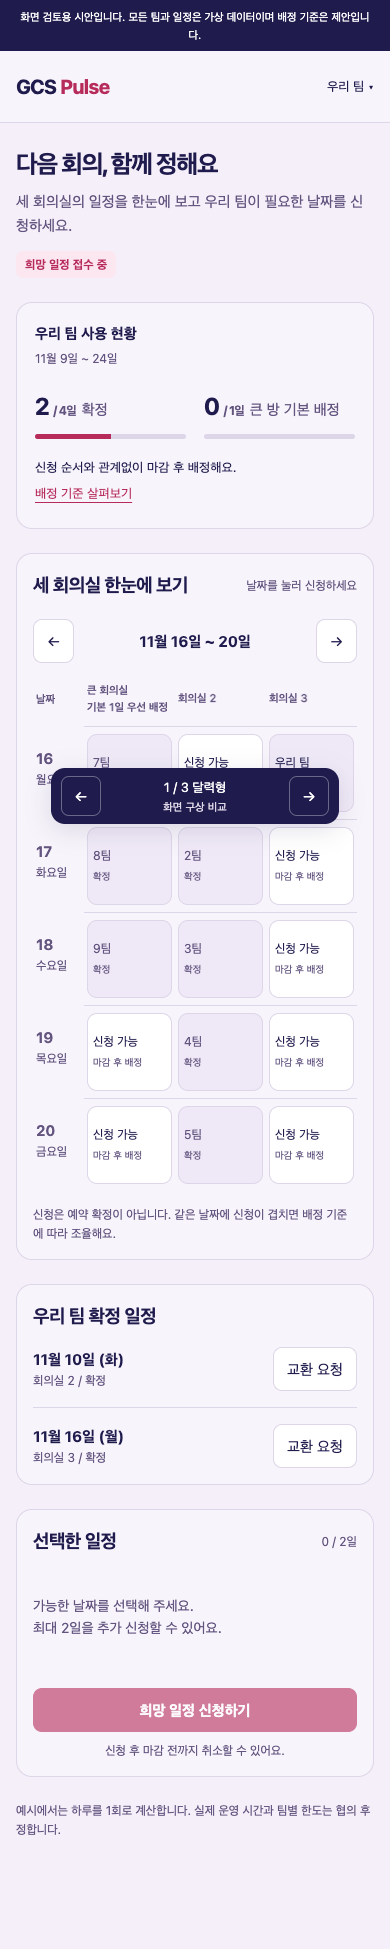
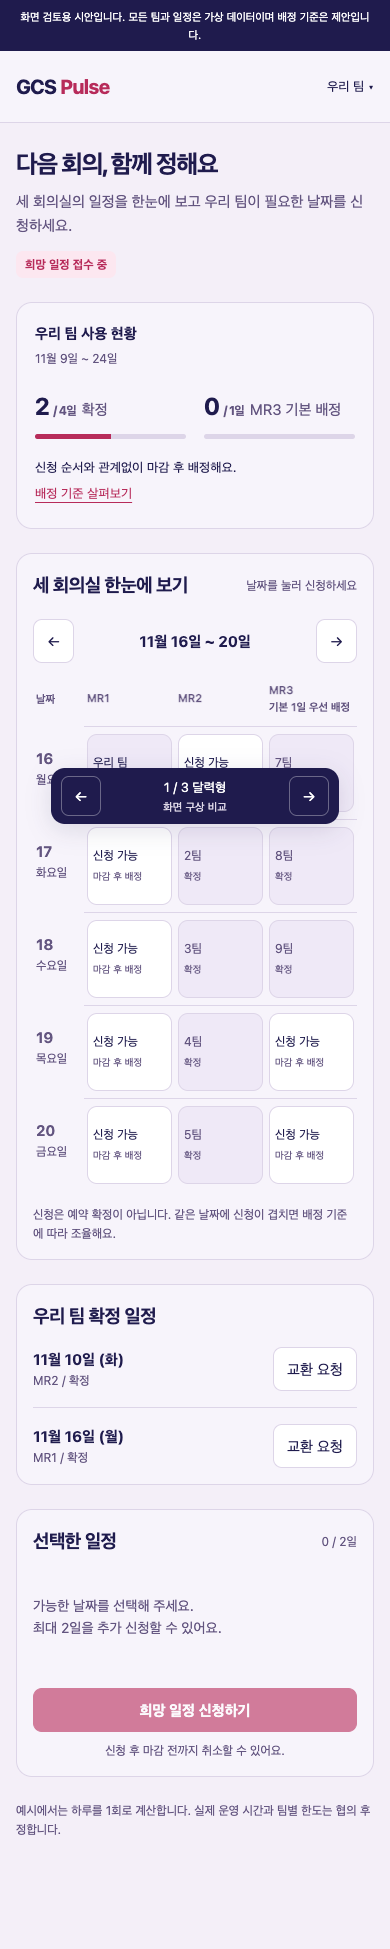
docs: 회의실 명칭과 MR3 배정 대상 수정

diff --git a/doc/prototypes/meeting-room-allocation/index.html b/doc/prototypes/meeting-room-allocation/index.html
@@ -110,10 +110,10 @@
     <section class="usage" aria-label="우리 팀 배정 현황">
       <div class="usage-label"><strong>우리 팀 사용 현황</strong><br><small>11월 9일 ~ 24일</small></div>
       <div class="usage-item"><div><strong>2 <small>/ 4일</small></strong><span class="muted">확정</span></div><div class="track"><div class="fill"></div></div></div>
-      <div class="usage-item"><div><strong>0 <small>/ 1일</small></strong><span class="muted">큰 방 기본 배정</span></div><div class="track"><div class="fill" style="width:0"></div></div></div>
+      <div class="usage-item"><div><strong>0 <small>/ 1일</small></strong><span class="muted">MR3 기본 배정</span></div><div class="track"><div class="fill" style="width:0"></div></div></div>
       <div class="rule">신청 순서와 관계없이 마감 후 배정해요.<br><button class="text-button" id="rule-toggle" aria-expanded="false" aria-controls="rules">배정 기준 살펴보기</button></div>
     </section>
-    <div id="rules" class="rule-detail" hidden>예시 기준: 9팀이 12일 동안 회의실 3개를 하루 단위로 사용합니다. 팀당 총 4일 중 큰 방 1일을 먼저 배정하고, 남은 큰 방 3일은 추가 추첨합니다. 날짜가 겹치면 대체 날짜 조율이 필요하며 희망 날짜를 보장하지 않습니다. 추가 배정과 시간 단위 운영은 별도 논의가 필요합니다.</div>
+    <div id="rules" class="rule-detail" hidden>예시 기준: 9팀이 12일 동안 MR1, MR2, MR3를 하루 단위로 사용합니다. 팀당 총 4일 중 큰 방인 MR3를 1일 먼저 배정하고, 남은 MR3 3일은 추가 추첨합니다. 날짜가 겹치면 대체 날짜 조율이 필요하며 희망 날짜를 보장하지 않습니다. 추가 배정과 시간 단위 운영은 별도 논의가 필요합니다.</div>
     <div id="feedback" class="notice" role="status" hidden></div>
     <div id="screen"></div>
     <p class="footnote muted">예시에서는 하루를 1회로 계산합니다. 실제 운영 시간과 팀별 한도는 협의 후 정합니다.</p>
@@ -134,15 +134,16 @@
     const dates = [9,10,11,12,13,16,17,18,19,20,23,24];
     const weekdays = ['월','화','수','목','금','월','화','수','목','금','월','화'];
     const weeks = [[0,1,2,3,4],[5,6,7,8,9],[10,11]];
-    const rooms = ['큰 회의실','회의실 2','회의실 3'];
+    const rooms = ['MR1','MR2','MR3'];
+    const largeRoom = 2;
     const bookings = [
-      {d:1,r:1,t:0},{d:5,r:2,t:0},{d:0,r:0,t:1},{d:6,r:1,t:1},
-      {d:1,r:0,t:2},{d:7,r:1,t:2},{d:2,r:0,t:3},{d:8,r:1,t:3},
-      {d:3,r:0,t:4},{d:9,r:1,t:4},{d:4,r:0,t:5},{d:10,r:1,t:5},
-      {d:5,r:0,t:6},{d:11,r:1,t:6},{d:6,r:0,t:7},{d:0,r:2,t:7},
-      {d:7,r:0,t:8},{d:2,r:2,t:8}
+      {d:1,r:1,t:0},{d:5,r:0,t:0},{d:0,r:2,t:1},{d:6,r:1,t:1},
+      {d:1,r:2,t:2},{d:7,r:1,t:2},{d:2,r:2,t:3},{d:8,r:1,t:3},
+      {d:3,r:2,t:4},{d:9,r:1,t:4},{d:4,r:2,t:5},{d:10,r:1,t:5},
+      {d:5,r:2,t:6},{d:11,r:1,t:6},{d:6,r:2,t:7},{d:0,r:0,t:7},
+      {d:7,r:2,t:8},{d:2,r:0,t:8}
     ];
-    let week = 1, activeRoom = 0, selection = [], requests = [], exchangeSource = null, exchangeRequests = [];
+    let week = 1, activeRoom = largeRoom, selection = [], requests = [], exchangeSource = null, exchangeRequests = [];
     const screen = document.getElementById('screen');
     const feedback = document.getElementById('feedback');
     const ownBookings = bookings.filter(b => b.t === 0);
@@ -168,13 +169,13 @@
       return `<section class="panel my-bookings"><h2>우리 팀 확정 일정</h2>${ownBookings.map((b,i)=>`<div class="booking"><div><strong>${dateLabel(b.d)}</strong><small>${rooms[b.r]} / ${pendingExchange(b)?'교환 요청 중':'확정'}</small></div><button class="button" data-exchange="${i}" ${pendingExchange(b)?'disabled':''}>${pendingExchange(b)?'응답 대기':'교환 요청'}</button></div>`).join('')}</section>`;
     }
     function calendarView() {
-      return `<div class="workspace"><div><section class="panel"><div class="panel-head"><h2>세 회의실 한눈에 보기</h2><small>날짜를 눌러 신청하세요</small></div>${weekNav()}<table class="calendar"><thead><tr><th scope="col">날짜</th>${rooms.map((r,i)=>`<th scope="col">${r}${i===0?'<br>기본 1일 우선 배정':''}</th>`).join('')}</tr></thead><tbody>${weeks[week].map(d=>`<tr><th scope="row" class="date">${dates[d]}<small>${weekdays[d]}요일</small></th>${rooms.map((_,r)=>`<td>${slot(d,r)}</td>`).join('')}</tr>`).join('')}</tbody></table><p class="calendar-caption">신청은 예약 확정이 아닙니다. 같은 날짜에 신청이 겹치면 배정 기준에 따라 조율해요.</p></section>${myBookings()}</div>${selectionPanel()}</div>`;
+      return `<div class="workspace"><div><section class="panel"><div class="panel-head"><h2>세 회의실 한눈에 보기</h2><small>날짜를 눌러 신청하세요</small></div>${weekNav()}<table class="calendar"><thead><tr><th scope="col">날짜</th>${rooms.map((r,i)=>`<th scope="col">${r}${i===largeRoom?'<br>기본 1일 우선 배정':''}</th>`).join('')}</tr></thead><tbody>${weeks[week].map(d=>`<tr><th scope="row" class="date">${dates[d]}<small>${weekdays[d]}요일</small></th>${rooms.map((_,r)=>`<td>${slot(d,r)}</td>`).join('')}</tr>`).join('')}</tbody></table><p class="calendar-caption">신청은 예약 확정이 아닙니다. 같은 날짜에 신청이 겹치면 배정 기준에 따라 조율해요.</p></section>${myBookings()}</div>${selectionPanel()}</div>`;
     }
     function guidedView() {
-      return `<div class="flow"><section class="room-menu" aria-label="회의실 선택">${rooms.map((r,i)=>`<button class="button room-choice ${activeRoom===i?'selected':''}" aria-pressed="${activeRoom===i}" data-room="${i}"><strong>${r}</strong><small>${i===0?'팀별 기본 배정 1일':'전체 사용 한도 안에서 신청'}</small></button>`).join('')}</section><section class="panel"><div class="panel-head"><h2>${rooms[activeRoom]} 날짜 선택</h2></div>${weekNav()}<div class="date-choices">${weeks[week].map(d=>slot(d,activeRoom,true)).join('')}</div><p class="calendar-caption">접수 기간 안에서는 먼저 신청해도 우선권이 생기지 않아요.</p>${myBookings()}</section>${selectionPanel()}</div>`;
+      return `<div class="flow"><section class="room-menu" aria-label="회의실 선택">${rooms.map((r,i)=>`<button class="button room-choice ${activeRoom===i?'selected':''}" aria-pressed="${activeRoom===i}" data-room="${i}"><strong>${r}</strong><small>${i===largeRoom?'팀별 기본 배정 1일':'전체 사용 한도 안에서 신청'}</small></button>`).join('')}</section><section class="panel"><div class="panel-head"><h2>${rooms[activeRoom]} 날짜 선택</h2></div>${weekNav()}<div class="date-choices">${weeks[week].map(d=>slot(d,activeRoom,true)).join('')}</div><p class="calendar-caption">접수 기간 안에서는 먼저 신청해도 우선권이 생기지 않아요.</p>${myBookings()}</section>${selectionPanel()}</div>`;
     }
     function teamsView() {
-      return `<div class="workspace"><section class="panel"><div class="panel-head"><h2>함께 쓰는 회의실</h2><small>9개 팀의 배정 현황</small></div><table class="board"><thead><tr><th scope="col">팀</th><th scope="col">전체 확정</th><th scope="col">큰 방 확정</th></tr></thead><tbody>${Array.from({length:9},(_,t)=>{const teamBookings=bookings.filter(b=>b.t===t);return `<tr class="${t===0?'our-team':''}"><th scope="row">${teamName(t)}</th><td class="count">${Array.from({length:4},(_,i)=>`<span class="use ${i<teamBookings.length?'filled':''}" aria-hidden="true"></span>`).join('')}<small>${teamBookings.length} / 4일${t===0&&requests.length?` (신청 중 ${requests.length}일)`:''}</small></td><td>${teamBookings.filter(b=>b.r===0).length}일</td></tr>`;}).join('')}</tbody></table><p class="board-note muted">전체 사용 횟수와 큰 방 배정 현황을 함께 확인할 수 있어요.</p>${myBookings()}</section><div><section class="panel"><h2>우리 팀 일정 추가</h2><p class="muted" style="margin:8px 0 16px">큰 방을 아직 배정받지 않았어요.</p>${weekNav()}<div class="compact-choices">${weeks[week].map(d=>slot(d,0,true)).join('')}</div></section><div style="margin-top:20px">${selectionPanel()}</div></div></div>`;
+      return `<div class="workspace"><section class="panel"><div class="panel-head"><h2>함께 쓰는 회의실</h2><small>9개 팀의 배정 현황</small></div><table class="board"><thead><tr><th scope="col">팀</th><th scope="col">전체 확정</th><th scope="col">MR3 확정</th></tr></thead><tbody>${Array.from({length:9},(_,t)=>{const teamBookings=bookings.filter(b=>b.t===t);return `<tr class="${t===0?'our-team':''}"><th scope="row">${teamName(t)}</th><td class="count">${Array.from({length:4},(_,i)=>`<span class="use ${i<teamBookings.length?'filled':''}" aria-hidden="true"></span>`).join('')}<small>${teamBookings.length} / 4일${t===0&&requests.length?` (신청 중 ${requests.length}일)`:''}</small></td><td>${teamBookings.filter(b=>b.r===largeRoom).length}일</td></tr>`;}).join('')}</tbody></table><p class="board-note muted">전체 사용 횟수와 큰 방 배정 현황을 함께 확인할 수 있어요.</p>${myBookings()}</section><div><section class="panel"><h2>우리 팀 일정 추가</h2><p class="muted" style="margin:8px 0 16px">MR3를 아직 배정받지 않았어요.</p>${weekNav()}<div class="compact-choices">${weeks[week].map(d=>slot(d,largeRoom,true)).join('')}</div></section><div style="margin-top:20px">${selectionPanel()}</div></div></div>`;
     }
     function render() {
       screen.innerHTML = variant==='calendar'?calendarView():variant==='guided'?guidedView():teamsView();
@@ -196,7 +197,7 @@
       const all=[...ownBookings,...requests,...selection];
       if(all.some(s=>s.d===d)) { notify('같은 날짜에는 한 회의실만 신청할 수 있어요. 기존 선택을 해제한 뒤 골라 주세요.');return; }
       if(all.length>=4) { notify('팀별 전체 사용 한도는 4일이에요. 선택하거나 신청한 날짜를 먼저 해제해 주세요.');return; }
-      if(r===0&&all.some(s=>s.r===0)) { notify('이번 기본 배정에서는 큰 방을 1일 신청할 수 있어요. 추가 배정은 별도로 진행해요.');return; }
+      if(r===largeRoom&&all.some(s=>s.r===largeRoom)) { notify('이번 기본 배정에서는 MR3를 1일 신청할 수 있어요. 추가 배정은 별도로 진행해요.');return; }
       selection.push({d,r});feedback.hidden=true;render();
     }
     function changeVariant(delta) {

diff --git a/doc/prototypes/meeting-room-allocation/README.md b/doc/prototypes/meeting-room-allocation/README.md
@@ -2,7 +2,9 @@
 
 팀별 사용 횟수를 확인하면서 세 회의실의 희망 일정을 신청하고, 확정된 날짜를 다른 팀과 교환할 수 있는 화면을 제안합니다. 기존 회의실 예약 기능에 어떻게 연결하면 좋을지 검토하기 위한 시안입니다.
 
-**이번 변경은 문서와 독립된 화면 시안입니다. 운영 예약, API, 데이터베이스, 배정 정책은 변경하지 않습니다.** 팀, 날짜, 방 이름, 배정 내역은 모두 가상 데이터입니다. 팀당 4일과 큰 방 기본 1일은 화면 검토를 위한 예시이며 확정된 운영 규칙을 의미하지 않습니다.
+**이번 변경은 문서와 독립된 화면 시안입니다. 운영 예약, API, 데이터베이스, 배정 정책은 변경하지 않습니다.** 회의실 이름은 MR1, MR2, MR3로 표시합니다. 팀, 날짜, 배정 내역은 가상 데이터입니다. 팀당 4일과 큰 방 기본 1일은 화면 검토를 위한 예시이며 확정된 운영 규칙을 의미하지 않습니다.
+
+큰 방 배정 대상은 MR3입니다. 2026년 10월 26일 회의실 목록 조회에서 North와 South 모두 MR3가 MR1, MR2보다 큰 수용 인원으로 안내되는 것을 확인했습니다. 시안에는 구역 접두사를 생략해 MR1, MR2, MR3로 표시하며, 실제 서비스 연결 시 구역과 방 ID를 함께 구분해야 합니다.
 
 ## 바로 확인하기
 
@@ -53,8 +55,8 @@ python3 -m http.server 8765 --directory doc/prototypes/meeting-room-allocation
 
 ## 시안에서 직접 확인할 수 있는 흐름
 
-1. 기본 화면의 11월 19일 큰 회의실을 선택합니다.
-2. 11월 20일 큰 회의실을 추가 선택하면 기본 배정 1일 안내가 나옵니다.
+1. 기본 화면에서 11월 19일 MR3를 선택합니다.
+2. 11월 20일 MR3를 추가 선택하면 기본 배정 1일 안내가 나옵니다.
 3. 다른 날짜의 작은 회의실을 선택해 총 2일을 추가 신청합니다.
 4. 신청한 일정은 확정과 구분되어 배정 대기로 표시됩니다. 신청을 취소하면 다른 날짜를 고를 수 있습니다.
 5. 우리 팀 확정 일정의 교환 요청을 누르면 같은 회의실을 가진 다른 팀의 날짜를 고를 수 있습니다.
